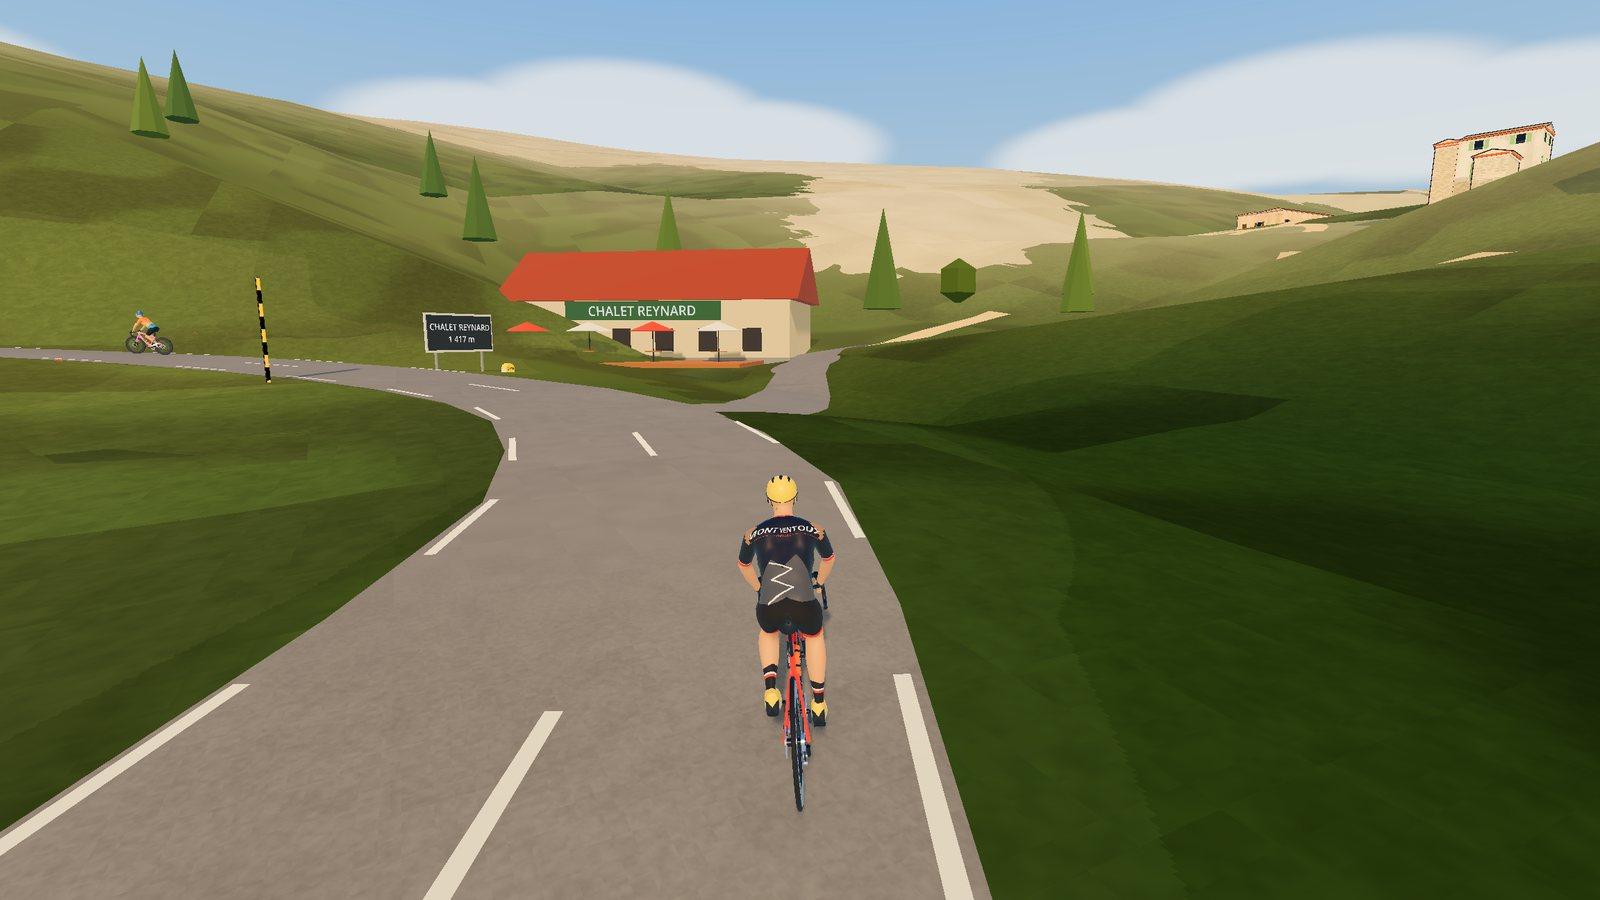
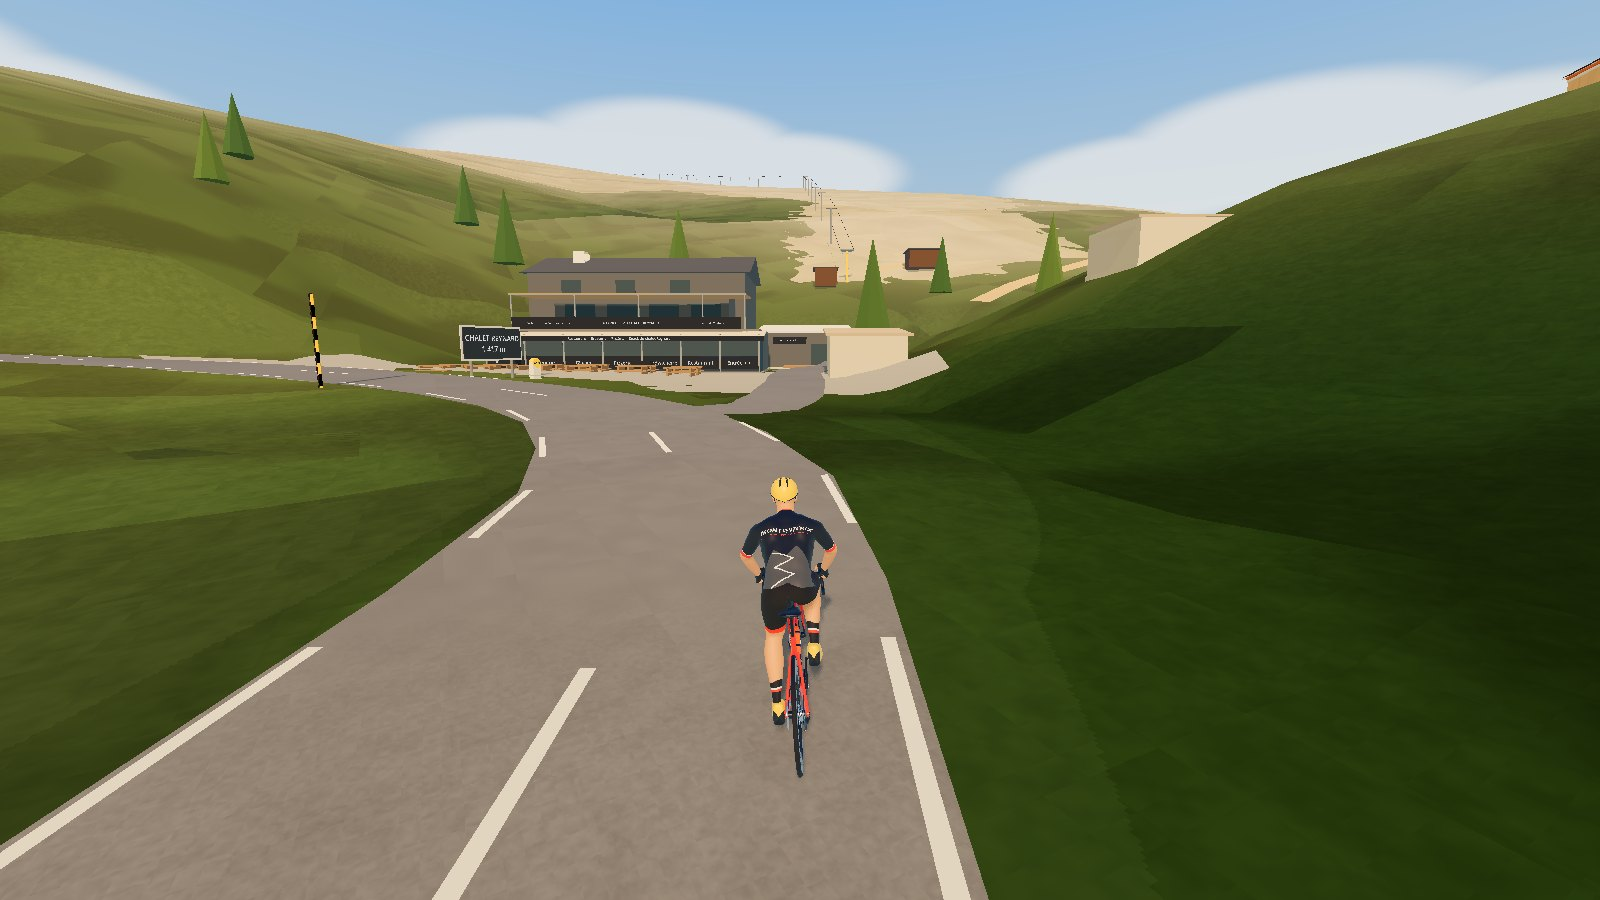
Chalet Reynard refait d'après le vrai : images des montées de Bédoin et de Sault

diff --git a/bedoin.html b/bedoin.html
@@ -63,7 +63,7 @@
     <h2>Ce qui vous attend</h2>
       <div class="feature reveal"><img src="img/bedoin_depart.jpg" alt="Le départ de Bédoin" loading="lazy"><div><h3>Bédoin, 306 m</h3><p>On quitte la place du village entre les platanes et les terrasses. Les six premiers kilomètres montent doucement entre vignes et cerisiers : c'est le moment de trouver son rythme.</p></div></div>
       <div class="feature reveal"><img src="img/bedoin_saint_esteve.jpg" alt="Le virage de Saint-Estève" loading="lazy"><div><h3>Saint-Estève, le virage qui change tout</h3><p>Au virage de Saint-Estève, la route entre dans la forêt et la pente ne redescend plus sous les 9 % pendant près de dix kilomètres. Dans le jeu, votre home trainer le fait sentir à chaque mètre.</p></div></div>
-      <div class="feature reveal"><img src="img/bedoin_chalet.jpg" alt="L'arrivée au Chalet Reynard" loading="lazy"><div><h3>Le Chalet Reynard, 1 417 m</h3><p>La forêt s'ouvre d'un coup sur le Chalet Reynard. Les arbres disparaissent : il reste six kilomètres dans le pierrier, exposés au vent, l'observatoire en ligne de mire.</p></div></div>
+      <div class="feature reveal"><img src="img/bedoin_chalet.jpg?v=2" alt="L'arrivée au Chalet Reynard" loading="lazy"><div><h3>Le Chalet Reynard, 1 417 m</h3><p>La forêt s'ouvre d'un coup sur le Chalet Reynard. Les arbres disparaissent : il reste six kilomètres dans le pierrier, exposés au vent, l'observatoire en ligne de mire.</p></div></div>
       <div class="feature reveal"><img src="img/bedoin_pierrier.jpg?v=2" alt="La stèle de Tom Simpson, l'observatoire en vue" loading="lazy"><div><h3>Le mémorial Tom Simpson et le col des Tempêtes</h3><p>À 1,3 km du sommet, la stèle de Tom Simpson se dresse côté montagne. Puis le col des Tempêtes, souvent balayé par le Mistral, et le dernier virage à 10 % sous l'observatoire, au milieu des spectateurs.</p></div></div>
   </div>
 </section>
@@ -92,7 +92,7 @@
     <div class="gallery">
       <figure class="reveal d1"><img src="img/bedoin_depart.jpg" alt="Le départ de Bédoin" loading="lazy"><figcaption>Le départ de Bédoin</figcaption></figure>
       <figure class="reveal d2"><img src="img/bedoin_saint_esteve.jpg" alt="Le virage de Saint-Estève" loading="lazy"><figcaption>Le virage de Saint-Estève</figcaption></figure>
-      <figure class="reveal d3"><img src="img/bedoin_chalet.jpg" alt="L'arrivée au Chalet Reynard" loading="lazy"><figcaption>L'arrivée au Chalet Reynard</figcaption></figure>
+      <figure class="reveal d3"><img src="img/bedoin_chalet.jpg?v=2" alt="L'arrivée au Chalet Reynard" loading="lazy"><figcaption>L'arrivée au Chalet Reynard</figcaption></figure>
       <figure class="reveal d1"><img src="img/bedoin_pierrier.jpg?v=2" alt="La stèle de Tom Simpson, l'observatoire en vue" loading="lazy"><figcaption>La stèle de Tom Simpson, l'observatoire en vue</figcaption></figure>
       <figure class="reveal d2"><img src="img/bedoin_sommet.jpg" alt="Les derniers mètres, les spectateurs" loading="lazy"><figcaption>Les derniers mètres, les spectateurs</figcaption></figure>
       <figure class="reveal d3"><img src="img/maquette_foret.jpg" alt="La forêt de Bédoin, vue d'en haut" loading="lazy"><figcaption>La forêt de Bédoin, vue d'en haut</figcaption></figure>

diff --git a/en-bedoin.html b/en-bedoin.html
@@ -63,7 +63,7 @@
     <h2>What lies ahead</h2>
       <div class="feature reveal"><img src="img/bedoin_depart.jpg" alt="Leaving Bédoin" loading="lazy"><div><h3>Bédoin, 306 m</h3><p>You leave the village square between plane trees and café terraces. The first six kilometres climb gently through vineyards and cherry orchards: time to find your rhythm.</p></div></div>
       <div class="feature reveal"><img src="img/bedoin_saint_esteve.jpg" alt="The Saint-Estève bend" loading="lazy"><div><h3>Saint-Estève, the bend that changes everything</h3><p>At the Saint-Estève bend the road enters the forest and the gradient stays above 9% for almost ten kilometres. In the game, your smart trainer makes you feel every metre.</p></div></div>
-      <div class="feature reveal"><img src="img/bedoin_chalet.jpg" alt="Arriving at Chalet Reynard" loading="lazy"><div><h3>Chalet Reynard, 1,417 m</h3><p>The forest suddenly opens onto Chalet Reynard. The trees are gone: six kilometres remain through the scree, exposed to the wind, the observatory in sight.</p></div></div>
+      <div class="feature reveal"><img src="img/bedoin_chalet.jpg?v=2" alt="Arriving at Chalet Reynard" loading="lazy"><div><h3>Chalet Reynard, 1,417 m</h3><p>The forest suddenly opens onto Chalet Reynard. The trees are gone: six kilometres remain through the scree, exposed to the wind, the observatory in sight.</p></div></div>
       <div class="feature reveal"><img src="img/bedoin_pierrier.jpg?v=2" alt="The Tom Simpson memorial, the observatory in sight" loading="lazy"><div><h3>The Tom Simpson memorial and the Col des Tempêtes</h3><p>1.3 km from the top, the Tom Simpson memorial stands on the mountain side. Then the Col des Tempêtes, often swept by the Mistral, and the last 10% bend below the observatory, among the crowd.</p></div></div>
   </div>
 </section>
@@ -92,7 +92,7 @@
     <div class="gallery">
       <figure class="reveal d1"><img src="img/bedoin_depart.jpg" alt="Leaving Bédoin" loading="lazy"><figcaption>Leaving Bédoin</figcaption></figure>
       <figure class="reveal d2"><img src="img/bedoin_saint_esteve.jpg" alt="The Saint-Estève bend" loading="lazy"><figcaption>The Saint-Estève bend</figcaption></figure>
-      <figure class="reveal d3"><img src="img/bedoin_chalet.jpg" alt="Arriving at Chalet Reynard" loading="lazy"><figcaption>Arriving at Chalet Reynard</figcaption></figure>
+      <figure class="reveal d3"><img src="img/bedoin_chalet.jpg?v=2" alt="Arriving at Chalet Reynard" loading="lazy"><figcaption>Arriving at Chalet Reynard</figcaption></figure>
       <figure class="reveal d1"><img src="img/bedoin_pierrier.jpg?v=2" alt="The Tom Simpson memorial, the observatory in sight" loading="lazy"><figcaption>The Tom Simpson memorial, the observatory in sight</figcaption></figure>
       <figure class="reveal d2"><img src="img/bedoin_sommet.jpg" alt="The last metres, the crowd" loading="lazy"><figcaption>The last metres, the crowd</figcaption></figure>
       <figure class="reveal d3"><img src="img/maquette_foret.jpg" alt="The Bédoin forest from above" loading="lazy"><figcaption>The Bédoin forest from above</figcaption></figure>

diff --git a/sault.html b/sault.html
@@ -63,7 +63,7 @@
     <h2>Ce qui vous attend</h2>
       <div class="feature reveal"><img src="img/sault_depart.jpg" alt="Le départ de Sault, la route du Ventoux" loading="lazy"><div><h3>Sault, 754 m</h3><p>On quitte le village perché par la route du Ventoux, entre champs de lavande et d'épeautre. Après une courte descente, la montée commence à 4 ou 5 %, régulière comme un métronome.</p></div></div>
       <div class="feature reveal"><img src="img/sault_plateau.jpg?v=2" alt="La montée en forêt" loading="lazy"><div><h3>La forêt du versant est</h3><p>Une longue traversée en forêt, à l'ombre des pins, sans jamais dépasser 6 % : idéal pour une séance au seuil ou un plan d'entraînement.</p></div></div>
-      <div class="feature reveal"><img src="img/sault_chalet.jpg" alt="Le Chalet Reynard" loading="lazy"><div><h3>Le Chalet Reynard, 1 417 m</h3><p>Au Chalet Reynard, la route de Sault rejoint celle de Bédoin. Le décor change d'un coup : plus un arbre, le pierrier blanc et le sommet droit devant.</p></div></div>
+      <div class="feature reveal"><img src="img/sault_chalet.jpg?v=2" alt="Le Chalet Reynard" loading="lazy"><div><h3>Le Chalet Reynard, 1 417 m</h3><p>Au Chalet Reynard, la route de Sault rejoint celle de Bédoin. Le décor change d'un coup : plus un arbre, le pierrier blanc et le sommet droit devant.</p></div></div>
       <div class="feature reveal"><img src="img/sault_sommet.jpg?v=2" alt="La stèle de Tom Simpson, l'observatoire en vue" loading="lazy"><div><h3>Les six derniers kilomètres</h3><p>Entre 7 et 9 % jusqu'au bout, devant la stèle de Tom Simpson et le col des Tempêtes, jusqu'à l'observatoire et ses spectateurs.</p></div></div>
   </div>
 </section>
@@ -92,7 +92,7 @@
     <div class="gallery">
       <figure class="reveal d1"><img src="img/sault_depart.jpg" alt="Le départ de Sault, la route du Ventoux" loading="lazy"><figcaption>Le départ de Sault, la route du Ventoux</figcaption></figure>
       <figure class="reveal d2"><img src="img/sault_plateau.jpg?v=2" alt="La montée en forêt" loading="lazy"><figcaption>La montée en forêt</figcaption></figure>
-      <figure class="reveal d3"><img src="img/sault_chalet.jpg" alt="Le Chalet Reynard" loading="lazy"><figcaption>Le Chalet Reynard</figcaption></figure>
+      <figure class="reveal d3"><img src="img/sault_chalet.jpg?v=2" alt="Le Chalet Reynard" loading="lazy"><figcaption>Le Chalet Reynard</figcaption></figure>
       <figure class="reveal d1"><img src="img/sault_sommet.jpg?v=2" alt="La stèle de Tom Simpson, l'observatoire en vue" loading="lazy"><figcaption>La stèle de Tom Simpson, l'observatoire en vue</figcaption></figure>
       <figure class="reveal d2"><img src="img/sault_foret_haut.jpg" alt="La forêt du versant est, vue d'en haut" loading="lazy"><figcaption>La forêt du versant est, vue d'en haut</figcaption></figure>
       <figure class="reveal d3"><img src="img/maquette_sault.jpg" alt="Sault et le plateau, vus d'en haut" loading="lazy"><figcaption>Sault et le plateau, vus d'en haut</figcaption></figure>

diff --git a/en-sault.html b/en-sault.html
@@ -63,7 +63,7 @@
     <h2>What lies ahead</h2>
       <div class="feature reveal"><img src="img/sault_depart.jpg" alt="Leaving Sault on the Ventoux road" loading="lazy"><div><h3>Sault, 754 m</h3><p>You leave the hilltop village on the Ventoux road, between lavender and spelt fields. After a short descent the climb starts at 4 to 5%, as steady as a metronome.</p></div></div>
       <div class="feature reveal"><img src="img/sault_plateau.jpg?v=2" alt="Climbing through the forest" loading="lazy"><div><h3>The east-side forest</h3><p>A long stretch through the pine forest, never above 6%: perfect for a threshold session or a training plan.</p></div></div>
-      <div class="feature reveal"><img src="img/sault_chalet.jpg" alt="Chalet Reynard" loading="lazy"><div><h3>Chalet Reynard, 1,417 m</h3><p>At Chalet Reynard the Sault road joins the Bédoin road. The scenery changes at once: not a single tree left, the white scree and the summit straight ahead.</p></div></div>
+      <div class="feature reveal"><img src="img/sault_chalet.jpg?v=2" alt="Chalet Reynard" loading="lazy"><div><h3>Chalet Reynard, 1,417 m</h3><p>At Chalet Reynard the Sault road joins the Bédoin road. The scenery changes at once: not a single tree left, the white scree and the summit straight ahead.</p></div></div>
       <div class="feature reveal"><img src="img/sault_sommet.jpg?v=2" alt="The Tom Simpson memorial, the observatory in sight" loading="lazy"><div><h3>The last six kilometres</h3><p>Between 7 and 9% all the way, past the Tom Simpson memorial and the Col des Tempêtes, up to the observatory and its crowd.</p></div></div>
   </div>
 </section>
@@ -92,7 +92,7 @@
     <div class="gallery">
       <figure class="reveal d1"><img src="img/sault_depart.jpg" alt="Leaving Sault on the Ventoux road" loading="lazy"><figcaption>Leaving Sault on the Ventoux road</figcaption></figure>
       <figure class="reveal d2"><img src="img/sault_plateau.jpg?v=2" alt="Climbing through the forest" loading="lazy"><figcaption>Climbing through the forest</figcaption></figure>
-      <figure class="reveal d3"><img src="img/sault_chalet.jpg" alt="Chalet Reynard" loading="lazy"><figcaption>Chalet Reynard</figcaption></figure>
+      <figure class="reveal d3"><img src="img/sault_chalet.jpg?v=2" alt="Chalet Reynard" loading="lazy"><figcaption>Chalet Reynard</figcaption></figure>
       <figure class="reveal d1"><img src="img/sault_sommet.jpg?v=2" alt="The Tom Simpson memorial, the observatory in sight" loading="lazy"><figcaption>The Tom Simpson memorial, the observatory in sight</figcaption></figure>
       <figure class="reveal d2"><img src="img/sault_foret_haut.jpg" alt="The east-side forest from above" loading="lazy"><figcaption>The east-side forest from above</figcaption></figure>
       <figure class="reveal d3"><img src="img/maquette_sault.jpg" alt="Sault and the plateau from above" loading="lazy"><figcaption>Sault and the plateau from above</figcaption></figure>
